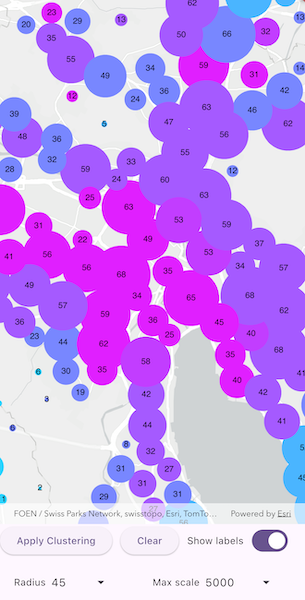
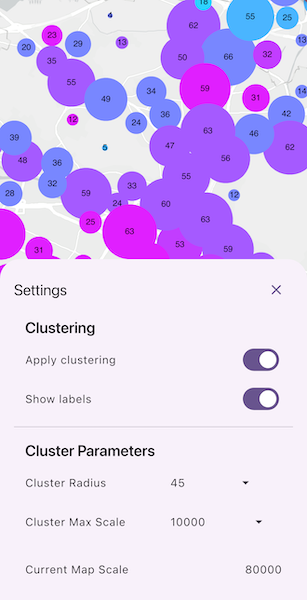
Configure clusters menu updated

diff --git a/lib/samples/configure_clusters/configure_clusters.dart b/lib/samples/configure_clusters/configure_clusters.dart
@@ -37,8 +37,8 @@ class _ConfigureClustersState extends State<ConfigureClusters>
   ClusteringFeatureReduction? _featureReduction;
 
   // Create flags to manage the sample UI state.
-  var _ready = false;
   var _showLabels = true;
+  var _settingsVisible = false;
 
   // Create options for configuring the radius and max display scale for clusters.
   final _clusterRadiusOptions = const [30, 45, 60, 75, 90];
@@ -54,6 +54,9 @@ class _ConfigureClustersState extends State<ConfigureClusters>
     500000,
   ];
   var _selectedMaxScale = 0; // default max scale (0 = unlimited).
+
+  // Snapshot of the map scale shown in the settings sheet.
+  var _mapScale = 0.0;
 
   // Define the options available for selecting a cluster radius and max display scale.
   late final _radiusEntries = _clusterRadiusOptions
@@ -81,103 +84,27 @@ class _ConfigureClustersState extends State<ConfigureClusters>
                 onTap: _onMapTap,
               ),
             ),
-            Wrap(
-              spacing: 12,
-              runSpacing: 8,
-              crossAxisAlignment: WrapCrossAlignment.center,
+            Row(
+              mainAxisAlignment: MainAxisAlignment.spaceEvenly,
               children: [
                 ElevatedButton(
-                  onPressed: _featureReduction == null
-                      ? _applyClustering
-                      : null,
-                  child: const Text('Apply Clustering'),
-                ),
-                ElevatedButton(
-                  onPressed: _featureReduction != null
-                      ? _clearClustering
-                      : null,
-                  child: const Text('Clear'),
-                ),
-                Row(
-                  mainAxisSize: MainAxisSize.min,
-                  children: [
-                    const Text('Show labels'),
-                    const SizedBox(width: 8),
-                    // Add a switch to toggle the display of labels.
-                    Switch(
-                      value: _showLabels,
-                      onChanged: _featureReduction == null
-                          ? null
-                          : (v) {
-                              setState(() => _showLabels = v);
-                              _featureReduction?.showLabels = v;
-                            },
-                    ),
-                  ],
-                ),
-                Row(
-                  mainAxisAlignment: MainAxisAlignment.spaceAround,
-                  children: [
-                    Expanded(
-                      child: Padding(
-                        padding: const EdgeInsets.fromLTRB(20, 0, 0, 0),
-                        child: Row(
-                          mainAxisSize: MainAxisSize.min,
-                          children: [
-                            const Text('Radius'),
-                            const SizedBox(width: 8),
-                            // Configure a dropdown menu for selecting the radius of the clusters.
-                            DropdownMenu<int>(
-                              dropdownMenuEntries: _radiusEntries,
-                              initialSelection: _selectedRadius,
-                              onSelected: _featureReduction == null
-                                  ? null
-                                  : (v) {
-                                      if (v == null) return;
-                                      setState(() => _selectedRadius = v);
-                                      _featureReduction?.radius = v.toDouble();
-
-                                      if (_featureReduction != null) {
-                                        // Nudge Refresh. If statle visuals.
-                                        _layer.featureReduction =
-                                            _featureReduction;
-                                      }
-                                    },
-                              width: _calculateMenuWidth(context, '000000'),
-                            ),
-                          ],
-                        ),
-                      ),
-                    ),
-                    Expanded(
-                      child: Row(
-                        mainAxisSize: MainAxisSize.min,
-                        children: [
-                          const Text('Max scale'),
-                          const SizedBox(width: 8),
-                          // Configure a dropdown menu for selecting the maximum display scale of the clusters.
-                          DropdownMenu<int>(
-                            dropdownMenuEntries: _maxScaleEntries,
-                            initialSelection: _selectedMaxScale,
-                            onSelected: _featureReduction == null
-                                ? null
-                                : (v) {
-                                    if (v == null) return;
-                                    setState(() => _selectedMaxScale = v);
-                                    _featureReduction?.maxScale = v.toDouble();
-                                  },
-                            width: _calculateMenuWidth(context, '0000000'),
-                          ),
-                        ],
-                      ),
-                    ),
-                  ],
+                  onPressed: () {
+                    final vp = _mapViewController.getCurrentViewpoint(
+                      ViewpointType.centerAndScale,
+                    );
+                    setState(() {
+                      _mapScale = vp?.targetScale ?? _mapScale;
+                      _settingsVisible = true;
+                    });
+                  },
+                  child: const Text('Clustering Settings'),
                 ),
               ],
             ),
           ],
         ),
       ),
+      bottomSheet: _settingsVisible ? buildSettings(context) : null,
     );
   }
 
@@ -206,15 +133,11 @@ class _ConfigureClustersState extends State<ConfigureClusters>
         scale: 80000,
       ),
     );
-
-    // Set the ready state variable to true to enable the sample UI.
-    setState(() => _ready = true);
   }
 
   Future<void> _applyClustering() async {
     // If feature reduction already applied.
     if (_featureReduction != null) return;
-    setState(() => _ready = false);
 
     // Create a class breaks renderer for "Average Building Height".
     final classBreaksRenderer = ClassBreaksRenderer()
@@ -288,9 +211,7 @@ class _ConfigureClustersState extends State<ConfigureClusters>
 
     // Apply the feature reduction to the feature layer.
     _layer.featureReduction = fr;
-    _featureReduction = fr;
-
-    setState(() => _ready = true);
+    setState(() => _featureReduction = fr);
   }
 
   Future<void> _onMapTap(Offset offset) async {
@@ -326,7 +247,7 @@ class _ConfigureClustersState extends State<ConfigureClusters>
       isScrollControlled: true,
       useSafeArea: true,
       builder: (_) => SizedBox(
-        height: MediaQuery.of(context).size.height * 0.5,
+        height: MediaQuery.sizeOf(context).height * 0.5,
         child: PopupView(
           popup: popup,
           onClose: () => Navigator.of(context).maybePop(),
@@ -342,15 +263,131 @@ class _ConfigureClustersState extends State<ConfigureClusters>
     setState(() {});
   }
 
-  double _calculateMenuWidth(BuildContext context, String sampleText) {
-    final tp = TextPainter(
-      text: TextSpan(
-        text: sampleText,
-        style: Theme.of(context).textTheme.labelMedium,
-      ),
-      maxLines: 1,
-      textDirection: TextDirection.ltr,
-    )..layout();
-    return tp.size.width * 2;
+  Widget buildSettings(BuildContext context) {
+    final theme = Theme.of(context);
+    final headingStyle = theme.textTheme.titleLarge?.copyWith(
+      fontWeight: FontWeight.w600,
+    );
+    final itemTextStyle = theme.textTheme.bodyLarge;
+
+    const tilePadding = EdgeInsets.symmetric(horizontal: 16);
+
+    return BottomSheetSettings(
+      onCloseIconPressed: () => setState(() => _settingsVisible = false),
+      settingsWidgets: (context) => [
+        SizedBox(
+          height: MediaQuery.sizeOf(context).height * 0.45,
+          child: ListTileTheme(
+            contentPadding: tilePadding,
+            child: ListView(
+              padding: const EdgeInsets.symmetric(vertical: 8),
+              children: [
+                // Clustering heading.
+                Padding(
+                  padding: const EdgeInsets.fromLTRB(16, 8, 16, 4),
+                  child: Text('Clustering', style: headingStyle),
+                ),
+
+                // Apply clustering (switch).
+                SwitchListTile(
+                  title: Text('Apply clustering', style: itemTextStyle),
+                  value: _featureReduction != null,
+                  onChanged: (on) async {
+                    if (on) {
+                      await _applyClustering();
+                    } else {
+                      _clearClustering();
+                    }
+                  },
+                ),
+
+                // Show labels (switch; only active when clustering is on).
+                SwitchListTile(
+                  title: Text('Show labels', style: itemTextStyle),
+                  value: _showLabels,
+                  onChanged: _featureReduction == null
+                      ? null
+                      : (v) {
+                          setState(() => _showLabels = v);
+                          _featureReduction?.showLabels = v;
+                        },
+                ),
+
+                const Divider(height: 24),
+
+                // Cluster Parameters heading.
+                Padding(
+                  padding: const EdgeInsets.fromLTRB(16, 8, 16, 4),
+                  child: Text('Cluster Parameters', style: headingStyle),
+                ),
+
+                // Cluster Radius Dropdown menu.
+                ListTile(
+                  title: Text('Cluster Radius', style: itemTextStyle),
+                  trailing: ConstrainedBox(
+                    constraints: const BoxConstraints(
+                      minWidth: 160,
+                      maxWidth: 220,
+                    ),
+                    child: DropdownMenu<int>(
+                      enabled: _featureReduction != null,
+                      textStyle: itemTextStyle,
+                      initialSelection: _selectedRadius,
+                      dropdownMenuEntries: _radiusEntries,
+                      onSelected: _featureReduction == null
+                          ? null
+                          : (value) {
+                              if (value == null) return;
+                              setState(() => _selectedRadius = value);
+                              _featureReduction?.radius = value.toDouble();
+                              if (_featureReduction != null) {
+                                // Nudge refresh.
+                                _layer.featureReduction = _featureReduction;
+                              }
+                            },
+                    ),
+                  ),
+                ),
+
+                // Cluster Max Scale Dropdown menu.
+                ListTile(
+                  title: Text('Cluster Max Scale', style: itemTextStyle),
+                  trailing: ConstrainedBox(
+                    constraints: const BoxConstraints(
+                      minWidth: 160,
+                      maxWidth: 220,
+                    ),
+                    child: DropdownMenu<int>(
+                      enabled: _featureReduction != null,
+                      textStyle: itemTextStyle,
+                      initialSelection: _selectedMaxScale,
+                      dropdownMenuEntries: _maxScaleEntries,
+                      onSelected: _featureReduction == null
+                          ? null
+                          : (value) {
+                              if (value == null) return;
+                              setState(() => _selectedMaxScale = value);
+                              _featureReduction?.maxScale = value.toDouble();
+                            },
+                    ),
+                  ),
+                ),
+
+                const SizedBox(height: 12),
+
+                // Current Map Scale.
+                ListTile(
+                  title: Text('Current Map Scale', style: itemTextStyle),
+                  trailing: Text(
+                    _mapScale.toStringAsFixed(0),
+                    style: itemTextStyle,
+                  ),
+                ),
+              ],
+            ),
+          ),
+        ),
+      ],
+    );
   }
 }
